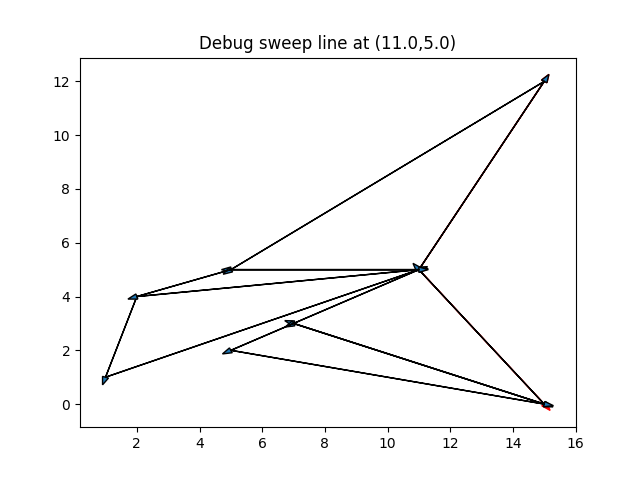
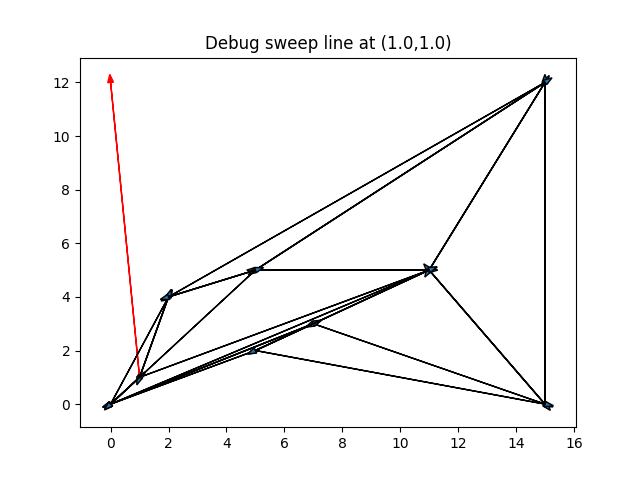
first 2 scans

diff --git a/src/puzzle_creators/random.py b/src/puzzle_creators/random.py
@@ -6,6 +6,10 @@ import random
 import re
 
 class RandomCreator(PuzzleCreator):
+    
+    def __init__(self):
+        super().__init__()
+        self.count_scans = 0
 
     def _create_rgon(self, kernel_point, r, edges_max_chain_length, continuity_edges):
         rgon = Polygon()
@@ -47,7 +51,8 @@ class RandomCreator(PuzzleCreator):
         # return 3
 
     def _is_finished_scan(self):
-        return True
+        self.count_scans +=1
+        return self.count_scans >= 2
 
 
 class RestoreRandom(RandomCreator):
@@ -75,3 +80,5 @@ class RestoreRandom(RandomCreator):
             return self.polygons_to_create.pop(0)
 
         return super()._create_rgon(kernel_point, r, edges_max_chain_length, continuity_edges)
+
+    

diff --git a/src/puzzle_creators/__init__.py b/src/puzzle_creators/__init__.py
@@ -195,11 +195,11 @@ class PuzzleCreator():
                     logger.exception(err)
                     raise err 
 
+            if self._is_finished_scan():
+                break
+
             scan_direction = Direction(scan_direction.value * (-1))
             self._preprocess(scan_direction.value)
-
-            if self._is_finished_scan:
-                break
     
     def _is_finished_scan(self):
         raise NotImplementedError("need to be implemented")
@@ -209,3 +209,4 @@ class PuzzleCreator():
 
     def _get_next_polygon_num_edges(self,continuity_edges,edges_max_chain_length):
         raise NotImplementedError("need to be implemented")
+    

diff --git a/tests/test_puzzle_creator.py b/tests/test_puzzle_creator.py
@@ -52,12 +52,14 @@ class TestRandomCreator(unittest.TestCase):
         logger.debug("Starting....")
 
         creator.load_sampled_points(self.files_path + "TBN_01.csv")
+        debug_dir = setup_logger.get_debug_lastrun_dir()
         fig, ax = plt.subplots()
 
         try:
             creator.create()
             creator.plot_puzzle(fig,ax)
             plt.show()
+            fig.savefig(debug_dir + "/results.png")
         except Exception as err:
             # logger.exception(err)
             raise err
